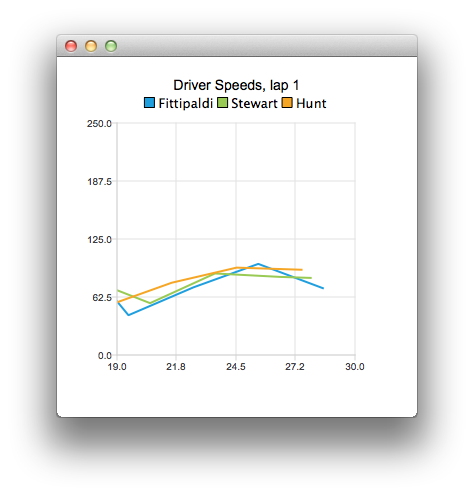
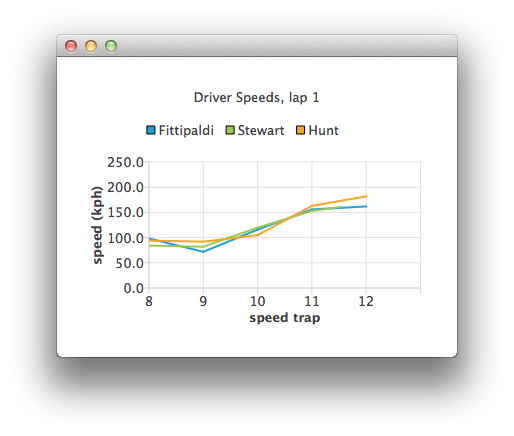
Updated QML Weather and QML F1 legends pics

Changed region(s): [[0.0886, 0.0596, 0.9156, 0.8647], [0.1772, 0.2683, 0.827, 0.7454], [0.1772, 0.2385, 0.2363, 0.2683]]

diff --git a/demos/qmlf1legends/qml/qmlf1legends/main.qml b/demos/qmlf1legends/qml/qmlf1legends/main.qml
@@ -22,8 +22,8 @@ import QtQuick 1.1
 import QtCommercial.Chart 1.1
 
 Rectangle {
-    width: 360
-    height: 360
+    width: 400
+    height: 300
     property int currentIndex: -1
 
     //![1]
